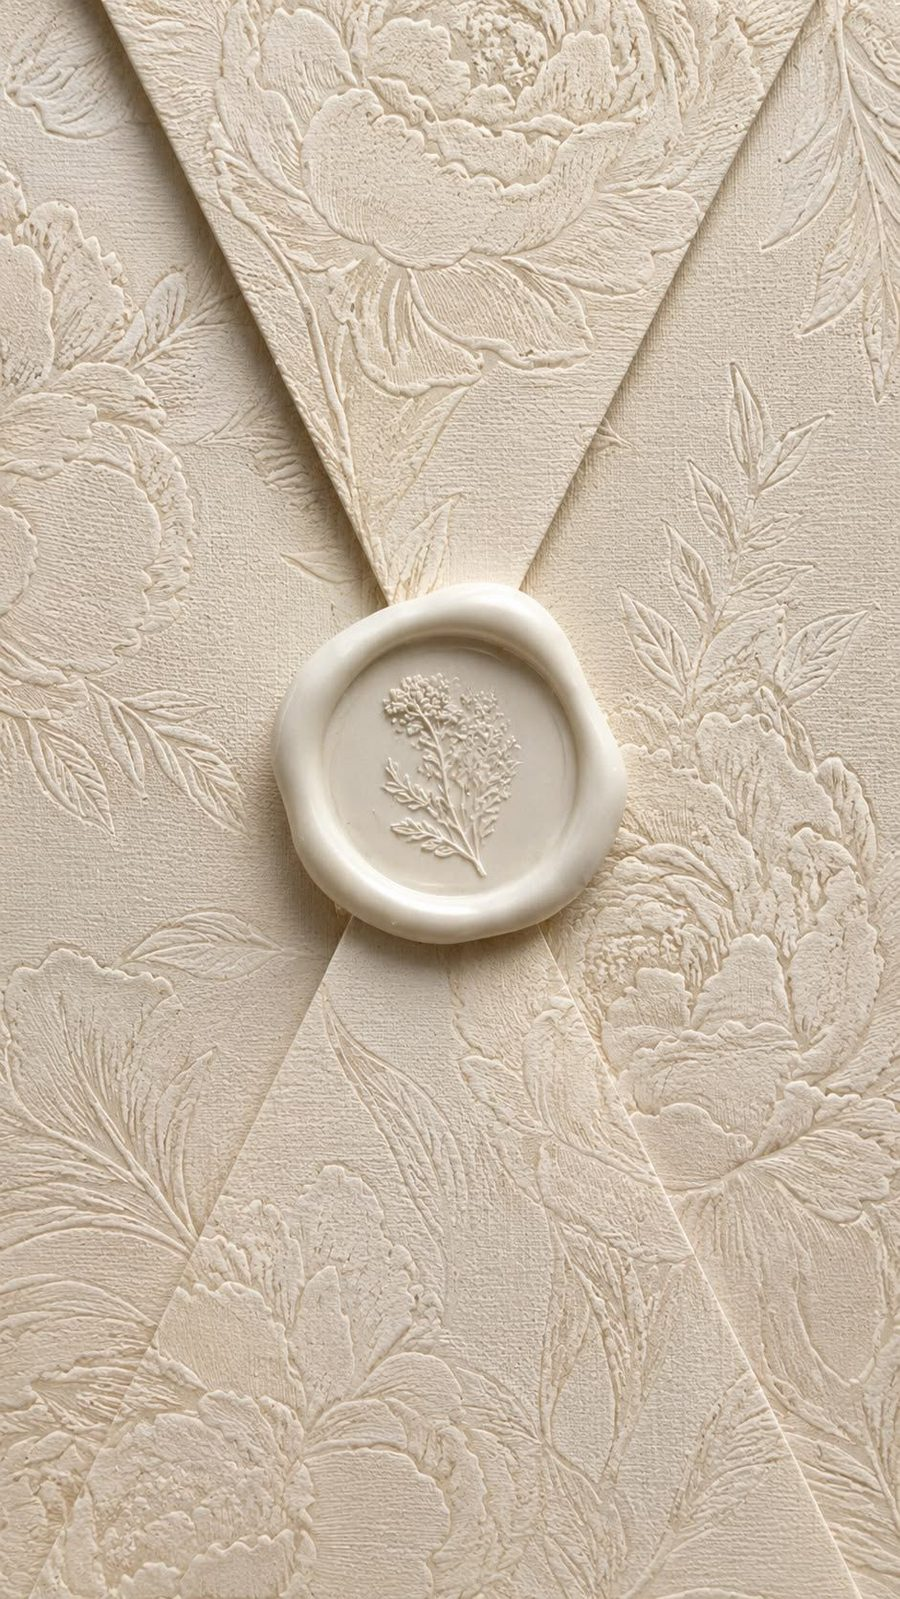
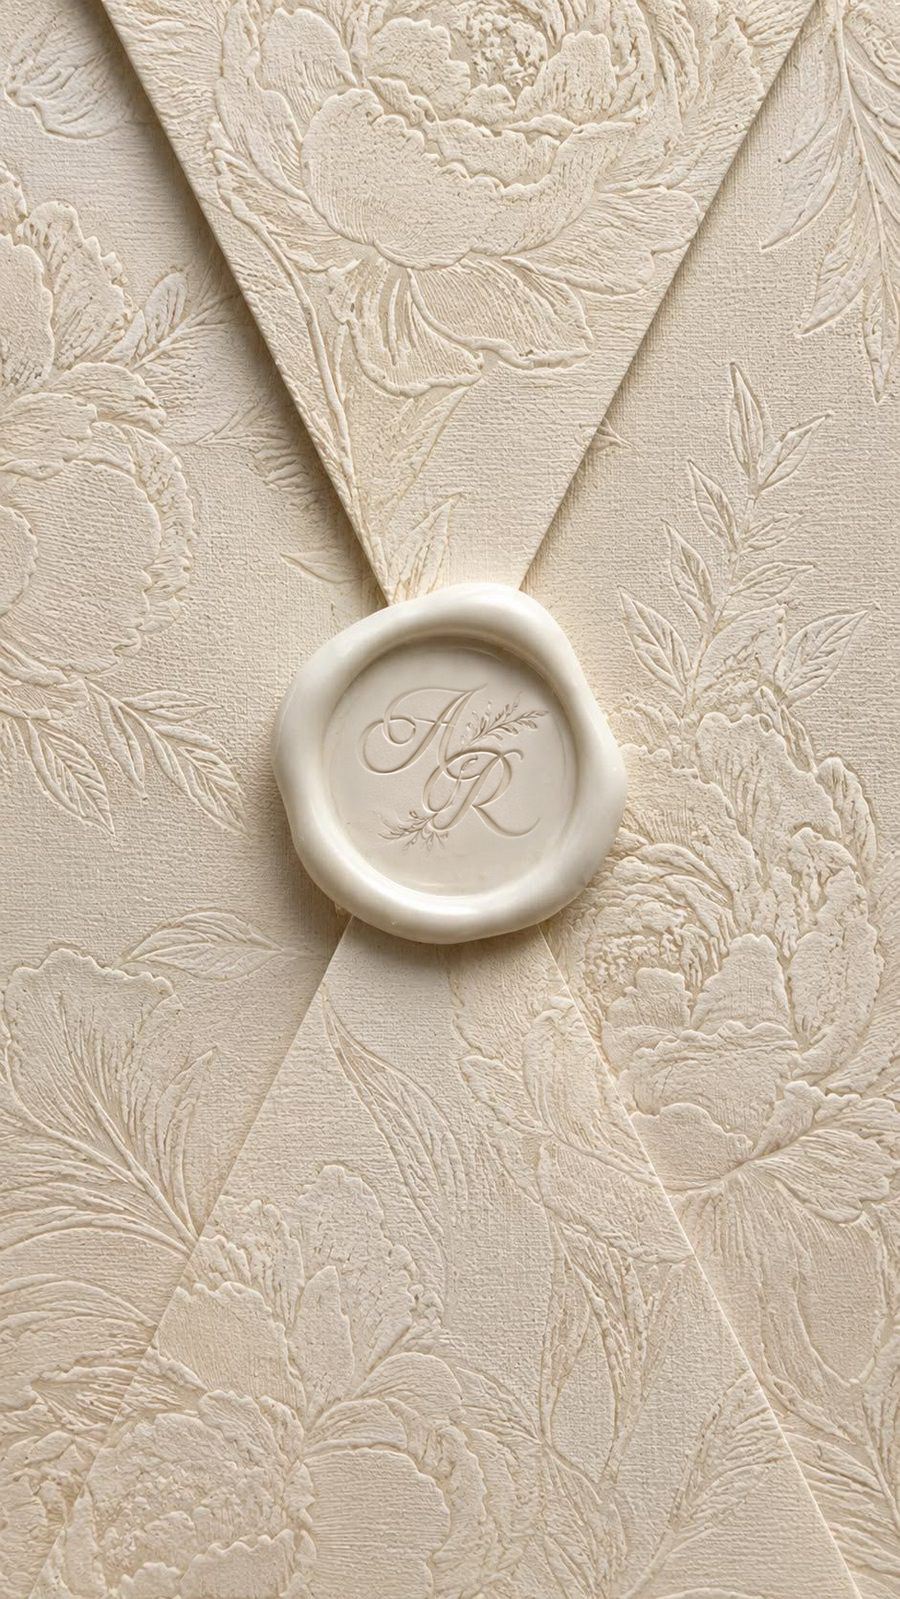
Images background and text contrast

Changed region(s): [[0.4044, 0.429, 0.6222, 0.5516]]

diff --git a/styles.css b/styles.css
@@ -37,7 +37,7 @@ body {
   inset: 0;
   z-index: 999;
   background: var(--ivory);
-  display: flex;
+  display: none;
   flex-direction: column;
   align-items: center;
   justify-content: center;
@@ -354,7 +354,7 @@ body {
   font-size: clamp(1.7rem, 5.2vw, 2.5rem);
   line-height: 2.1;
   color: var(--olive-deep);
-  max-width: 16ch;
+  max-width: 32ch;
   direction: rtl;
 }
 .verse-translation {
@@ -363,7 +363,7 @@ body {
   font-style: italic;
   font-size: clamp(1.15rem, 3vw, 1.5rem);
   color: var(--ink-soft);
-  max-width: 32ch;
+  max-width: 38ch;
   line-height: 1.6;
 }
 .verse-source {
@@ -384,7 +384,7 @@ body {
   font-size: 0.72rem;
   letter-spacing: 0.36em;
   text-transform: uppercase;
-  color: var(--gold);
+  color: var(--gold-dark);
   margin-bottom: 2.2rem;
 }
 .countdown {
@@ -427,20 +427,31 @@ body {
 
 /* ================= SECTION 3 — UBICACION ================= */
 #sec-3 {
-  background: var(--ivory);
+  background:
+    url("background-place.jpeg") center / cover no-repeat,
+    var(--olive-deep);
 }
+.contrast-box {
+  background: rgba(248, 243, 231, 0.25);
+  backdrop-filter: blur(4px);
+  padding: 0.6rem 1rem;
+  border-radius: 6px;
+  box-shadow: 0 2px 8px rgba(0, 0, 0, 0.15);
+}
+
 .venue-name {
   font-family: "Marcellus", serif;
   font-size: clamp(1.8rem, 6vw, 2.6rem);
   color: var(--olive-deep);
 }
 .venue-address {
-  margin-top: 0.9rem;
+  margin: 0.9rem auto 0;
   font-family: "Cormorant Garamond", serif;
   font-size: 1.2rem;
-  color: var(--ink-soft);
+  color: var(--ink);
   max-width: 26ch;
   line-height: 1.5;
+  text-align: center;
 }
 .maps-btn {
   margin-top: 2.4rem;
@@ -483,6 +494,11 @@ body {
 /* ================= SECTION 4 — ASISTENCIA ================= */
 #sec-4 {
   background: var(--ivory-2);
+}
+.assistance-title {
+  font-family: "Marcellus", serif;
+  font-size: clamp(1.8rem, 6vw, 2.6rem);
+  color: var(--olive-deep);
 }
 .wa-btn {
   margin-top: 2.4rem;

diff --git a/index.html b/index.html
@@ -160,10 +160,12 @@
           <circle cx="30" cy="28" r="7" stroke="#B08D57" stroke-width="1" />
         </svg>
         <p class="section-eyebrow reveal d2">La celebración</p>
-        <h2 class="venue-name reveal d2">Masia Lahore Heritage</h2>
-        <p class="venue-address reveal d3">
-          Cami vell d'Ullastrell, s/n, 08191 Rubí, Barcelona
-        </p>
+        <div class="contrast-box">
+          <h2 class="venue-name reveal d2">Masia Lahore Heritage</h2>
+          <p class="venue-address reveal d3">
+            Cami vell d'Ullastrell, s/n, 08191 Rubí, Barcelona
+          </p>
+        </div>
         <a
           class="maps-btn reveal d4"
           href="https://maps.app.goo.gl/F2553LUF5wtBa9mQ6"
@@ -213,7 +215,7 @@
       <!-- ============ ASISTENCIA (NUEVA SECCIÓN) ============ -->
       <section class="section" id="sec-4">
         <p class="section-eyebrow reveal d1">Acompáñanos</p>
-        <h2 class="venue-name reveal d2">Asistencia</h2>
+        <h2 class="assistance-title reveal d2">Asistencia</h2>
         <p
           class="venue-address reveal d3"
           style="margin-top: 1.2rem; max-width: 28ch"
